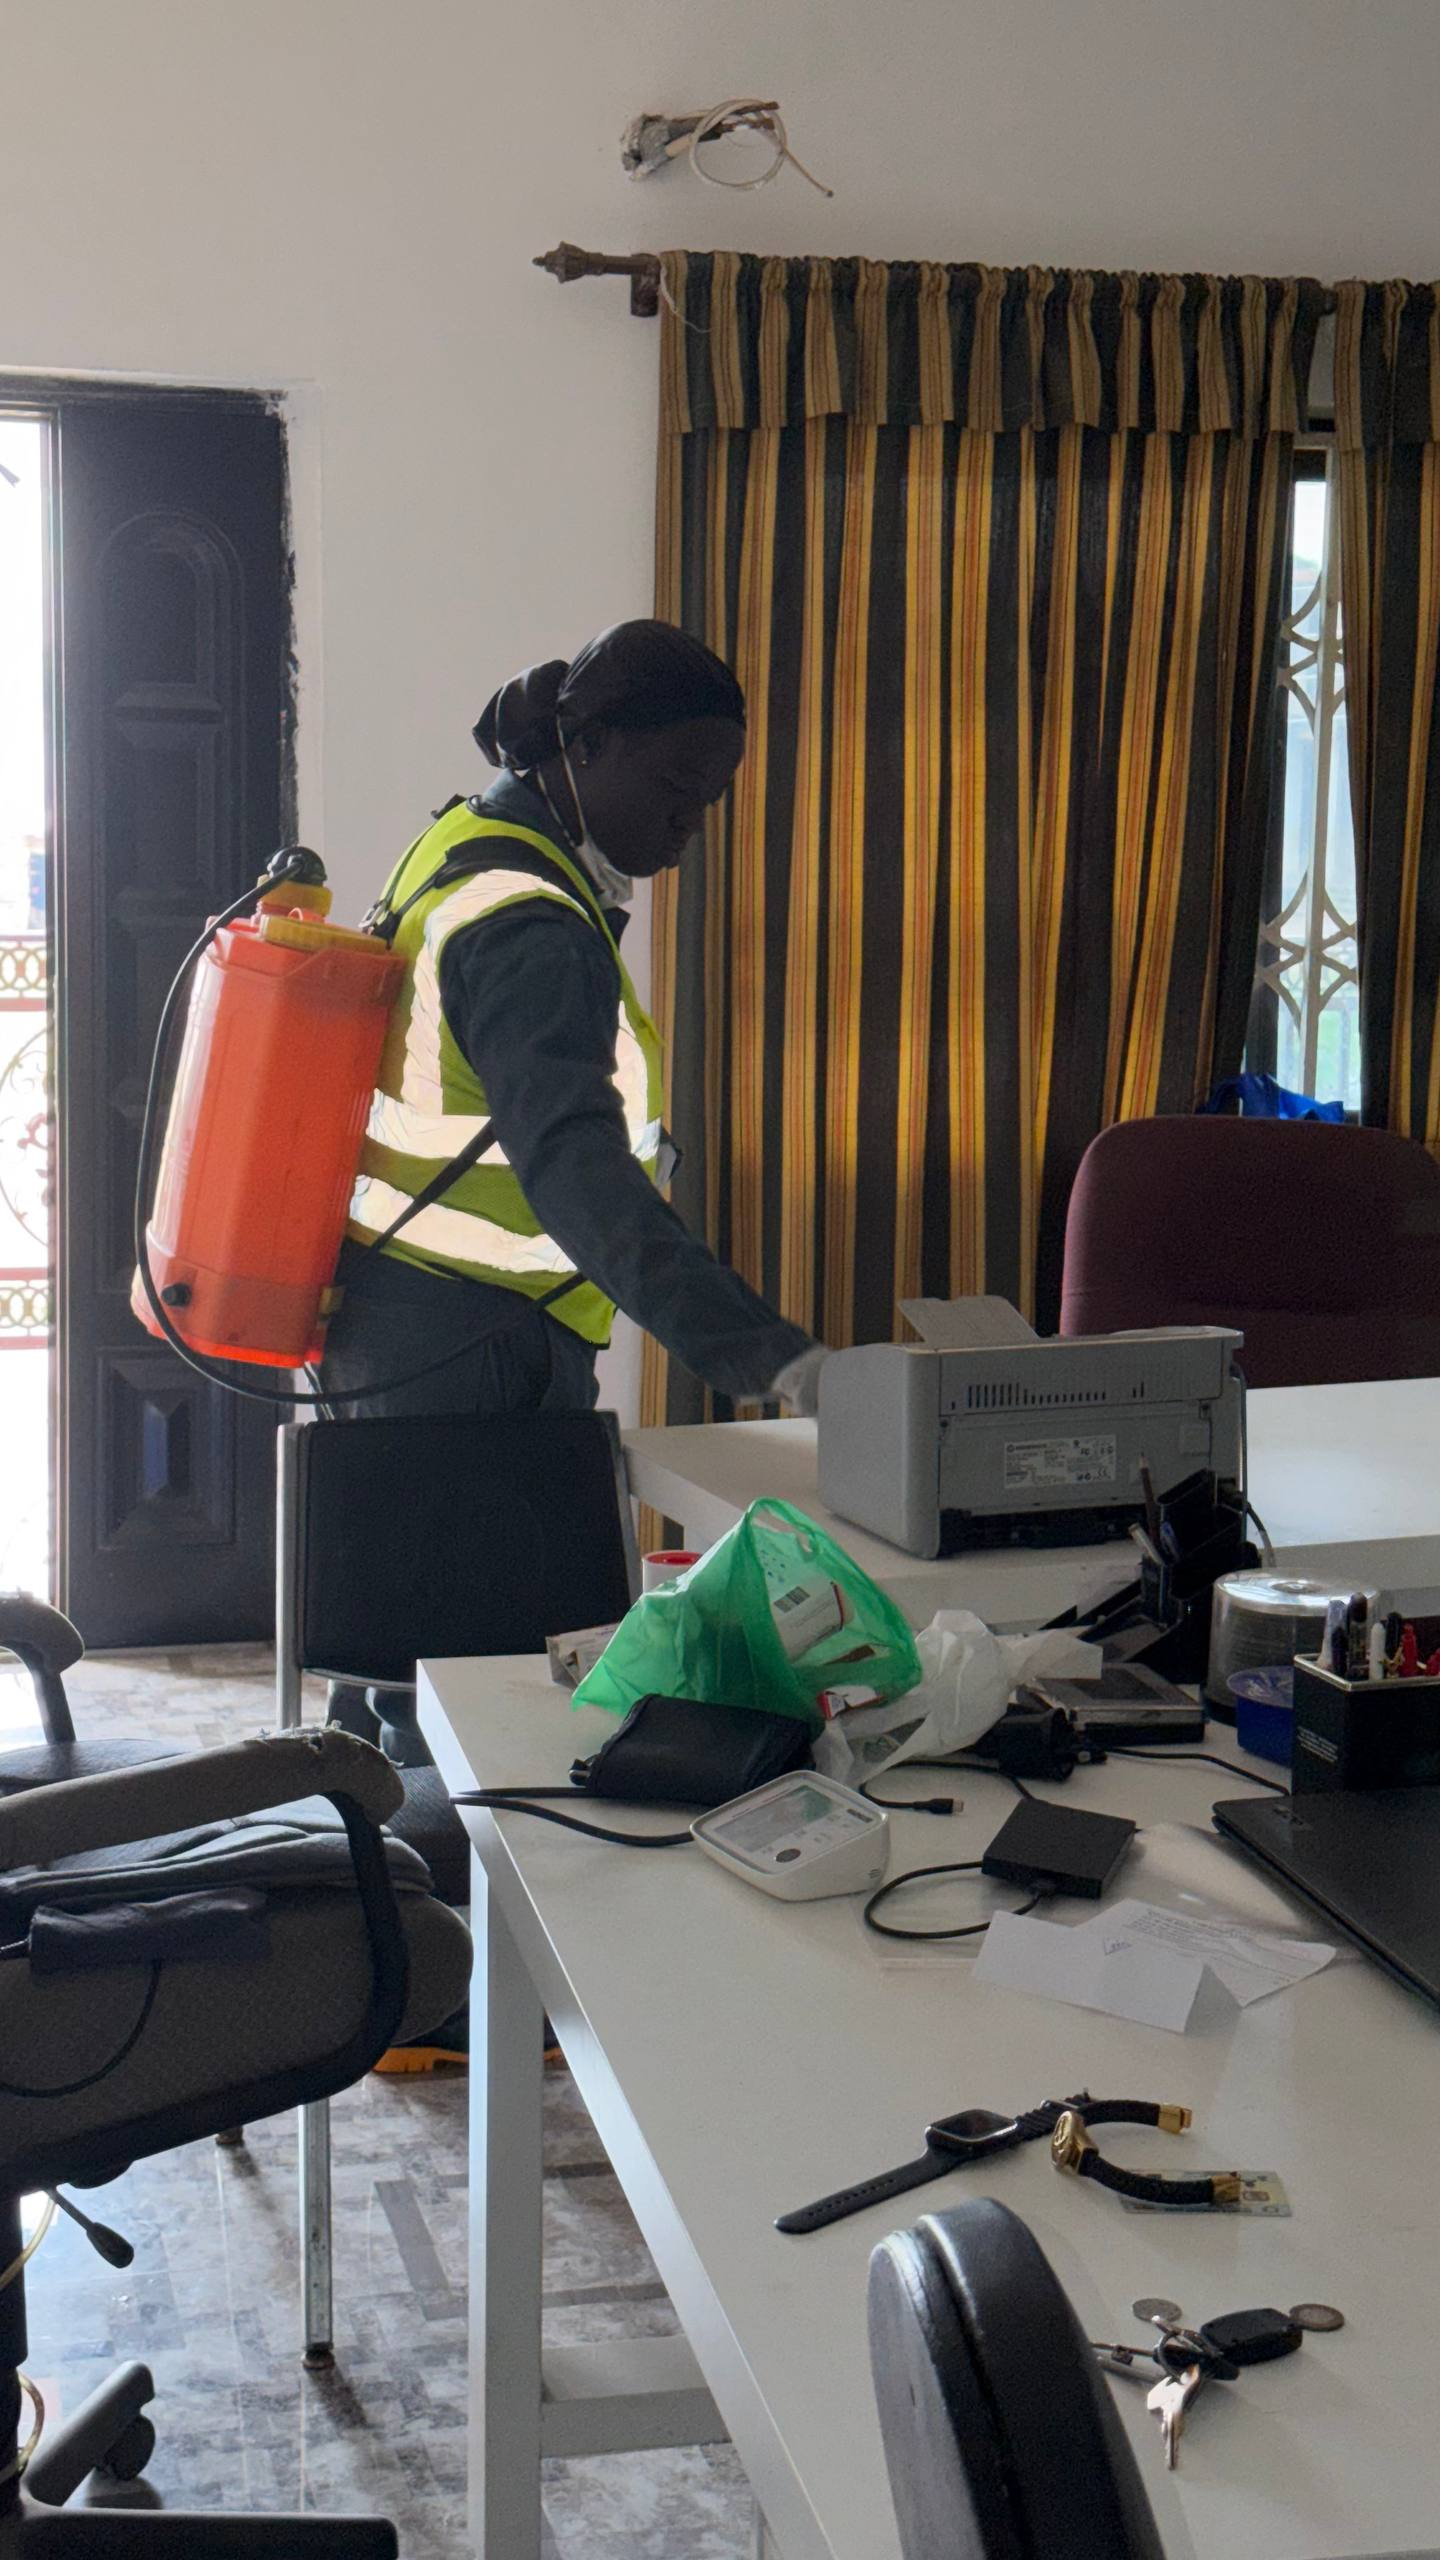
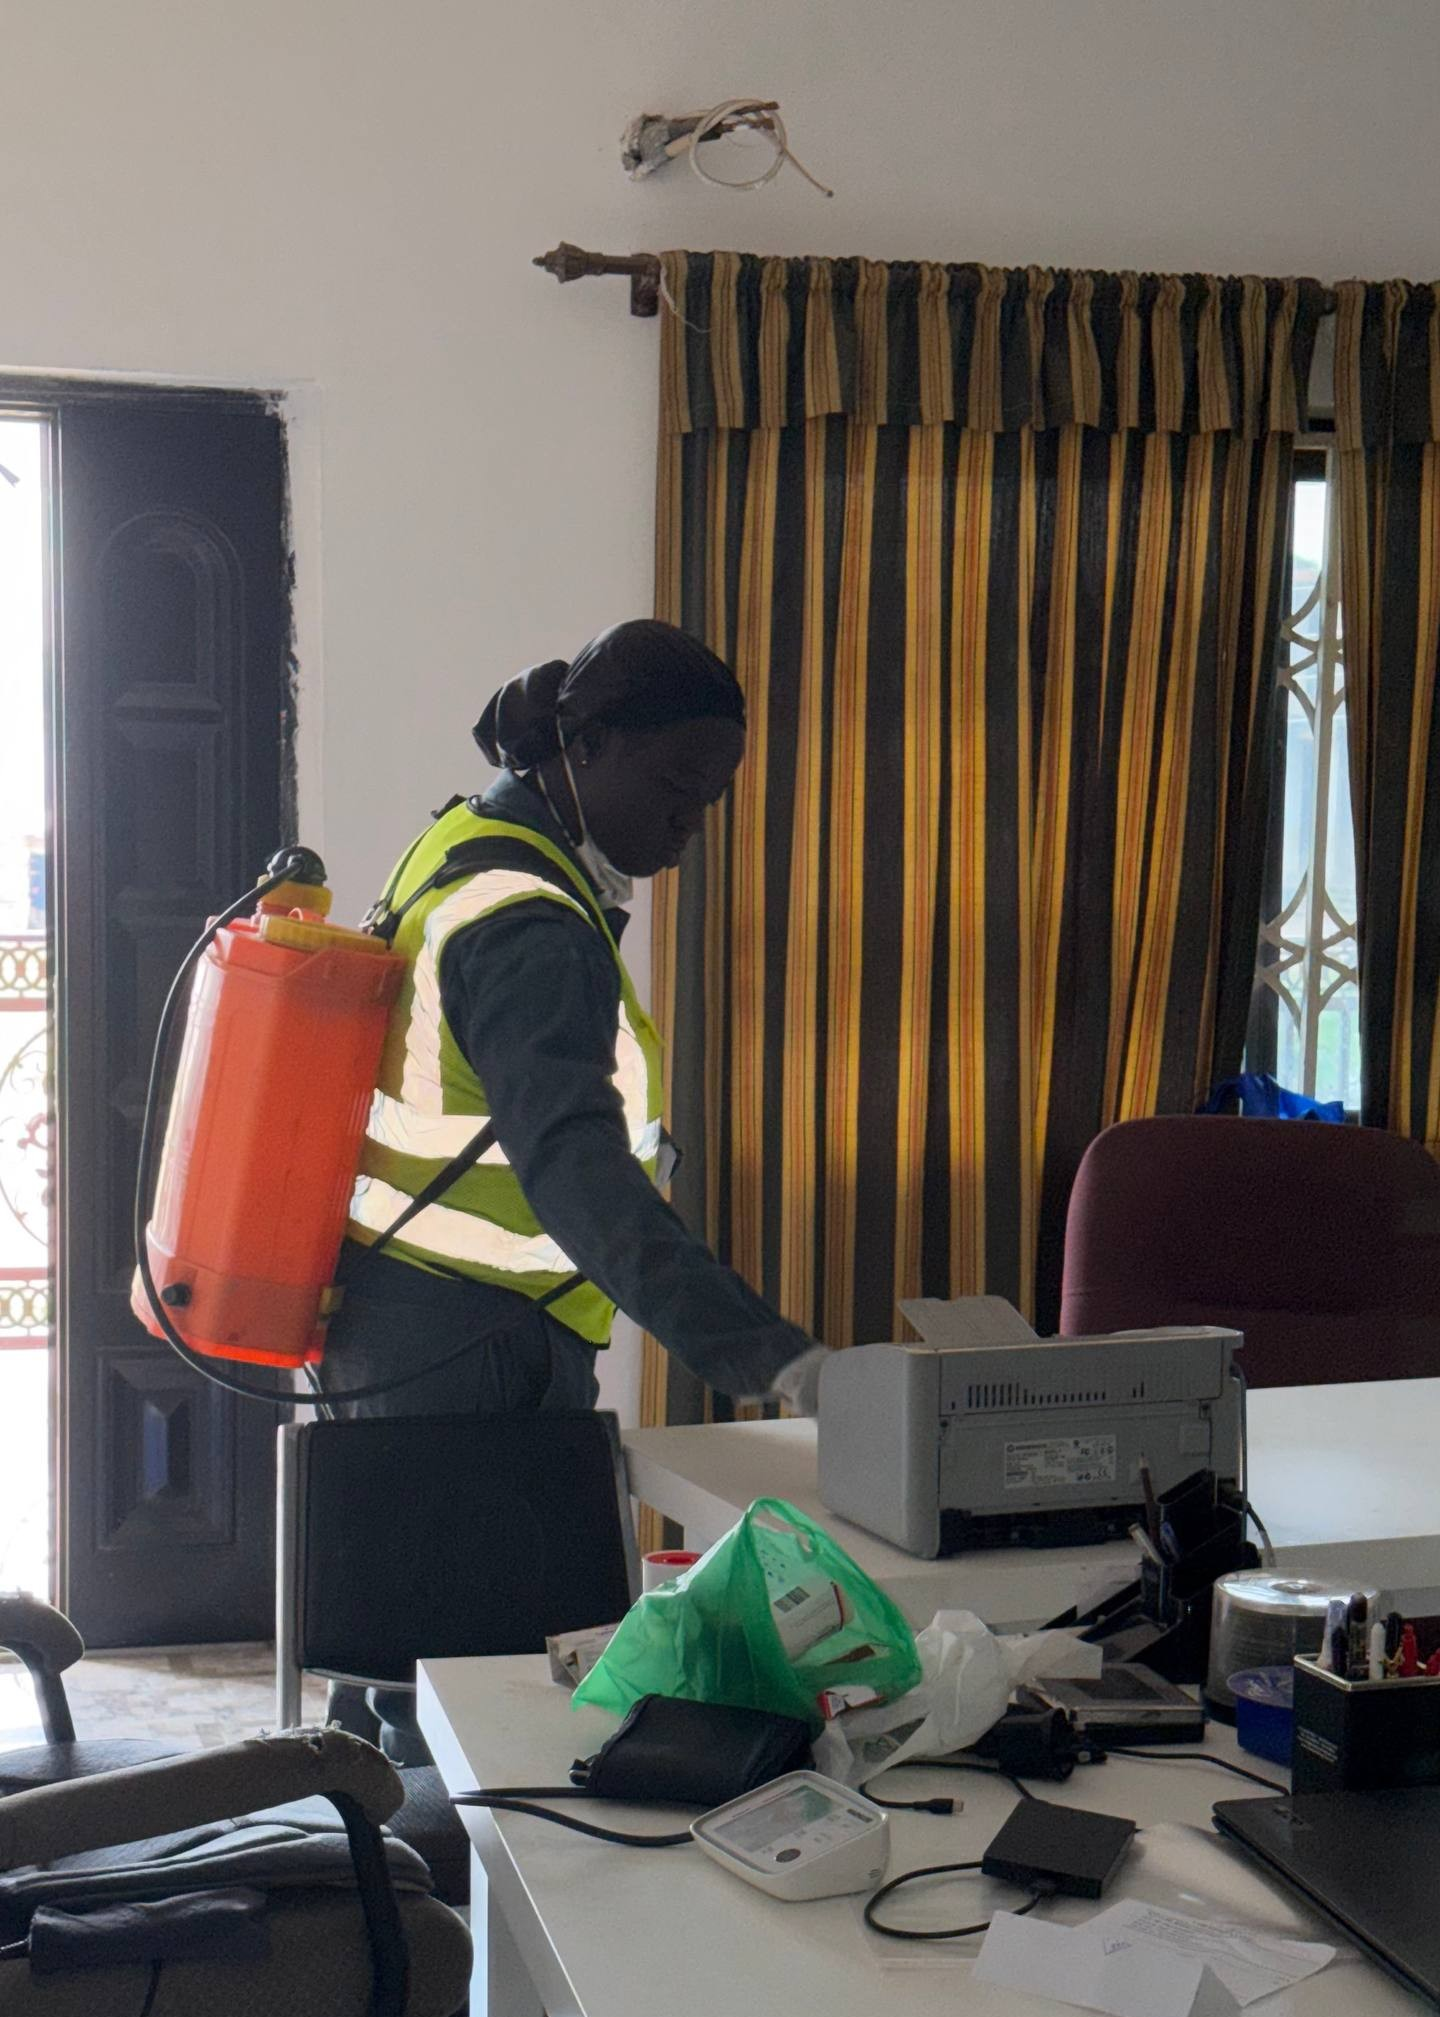
made changes to the email

diff --git a/index.html b/index.html
@@ -60,7 +60,7 @@
     "logo": "https://www.dynamicexpresssolutions.com/images/logo.png",
     "image": "https://www.dynamicexpresssolutions.com/images/hero-team.jpg",
     "telephone": "+233-XX-XXX-XXXX",
-    "email": "[email redacted]",
+    "email": "[email redacted]",
     "priceRange": "GH₵₵",
     "currenciesAccepted": "GHS",
     "paymentAccepted": "Cash, Mobile Money, Bank Transfer",
@@ -165,8 +165,8 @@
       <span class="topbar-contact">
         <a href="tel:[phone redacted]"><i class="fa-solid fa-phone"></i> [phone redacted]</a>
         <span class="divider" aria-hidden="true">|</span>
-        <a href="mailto:[email redacted]"><i class="fa-solid fa-envelope"></i>
-          [email redacted]</a>
+        <a href="mailto:[email redacted]"><i class="fa-solid fa-envelope"></i>
+          [email redacted]</a>
       </span>
     </div>
   </div>
@@ -657,7 +657,7 @@
             <li><span class="ci" aria-hidden="true"><i class="fa-brands fa-whatsapp text-success"></i></span> <a
                 href="https://wa.me/[phone redacted]" rel="noopener">WhatsApp Us</a></li>
             <li><span class="ci" aria-hidden="true"><i class="fa-solid fa-envelope"></i></span> <a
-                href="mailto:[email redacted]">[email redacted]</a></li>
+                href="mailto:@dynamicexpresssolutions.com">[email redacted]</a></li>
             <li><span class="ci" aria-hidden="true"><i class="fa-solid fa-map-pin"></i></span> Tema • Accra • Kumasi —
               Nationwide Ghana</li>
           </ul>
@@ -677,7 +677,7 @@
             <div class="form-field">
               <label for="phone">Phone *</label>
               <input type="tel" id="phone" name="phone" autocomplete="tel" required placeholder="e.g. 024 XXX XXXX">
-            </div>
+            </div>info
           </div>
 
           <div class="form-row">